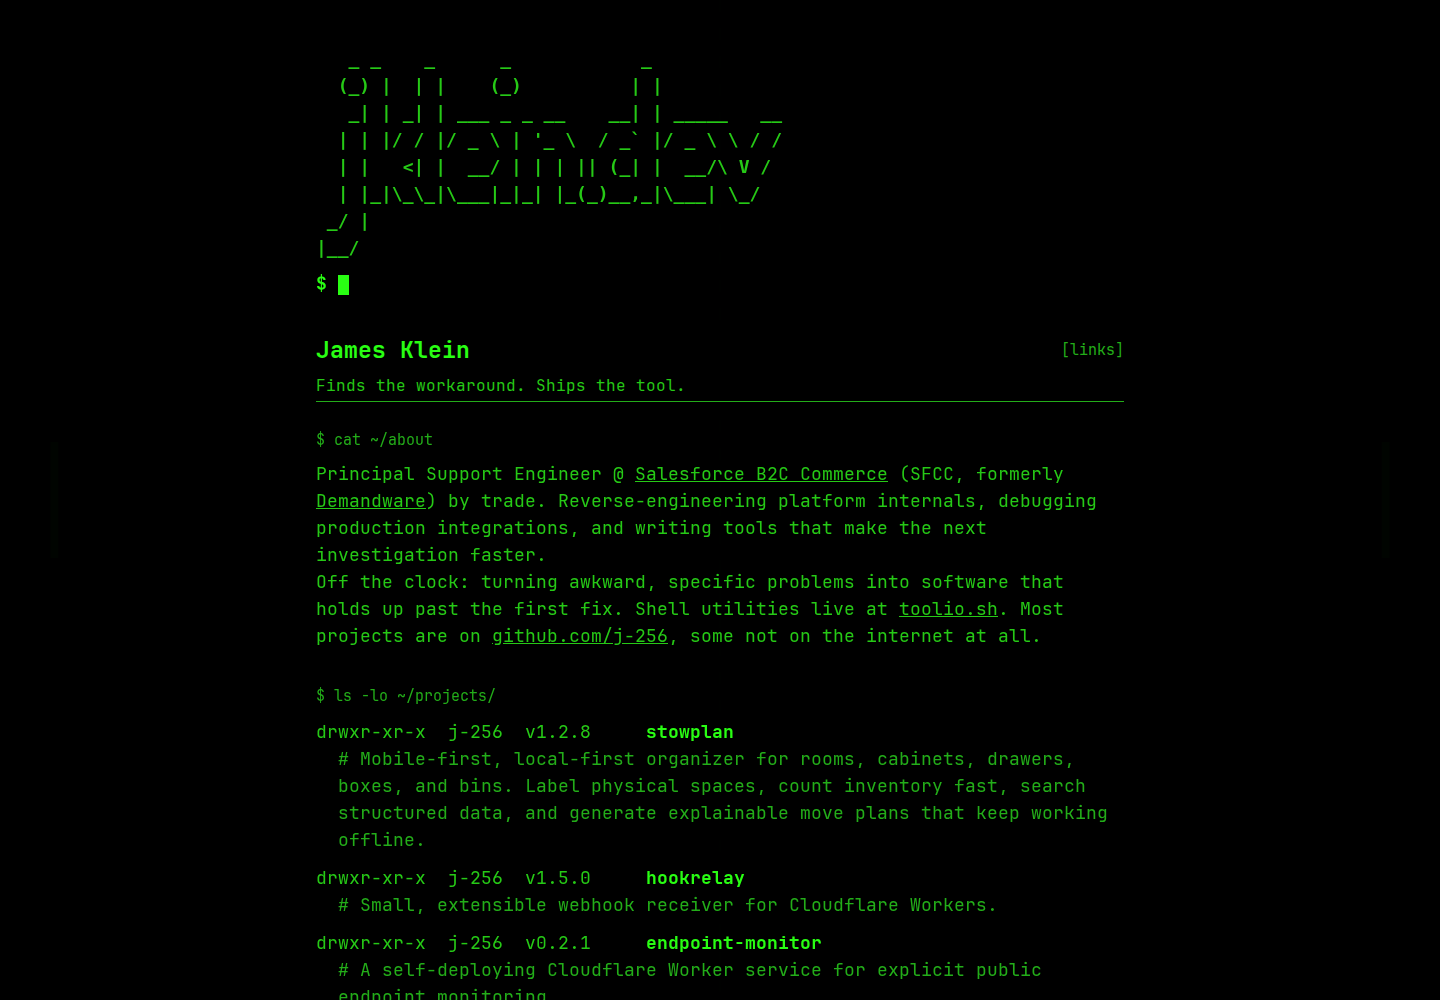
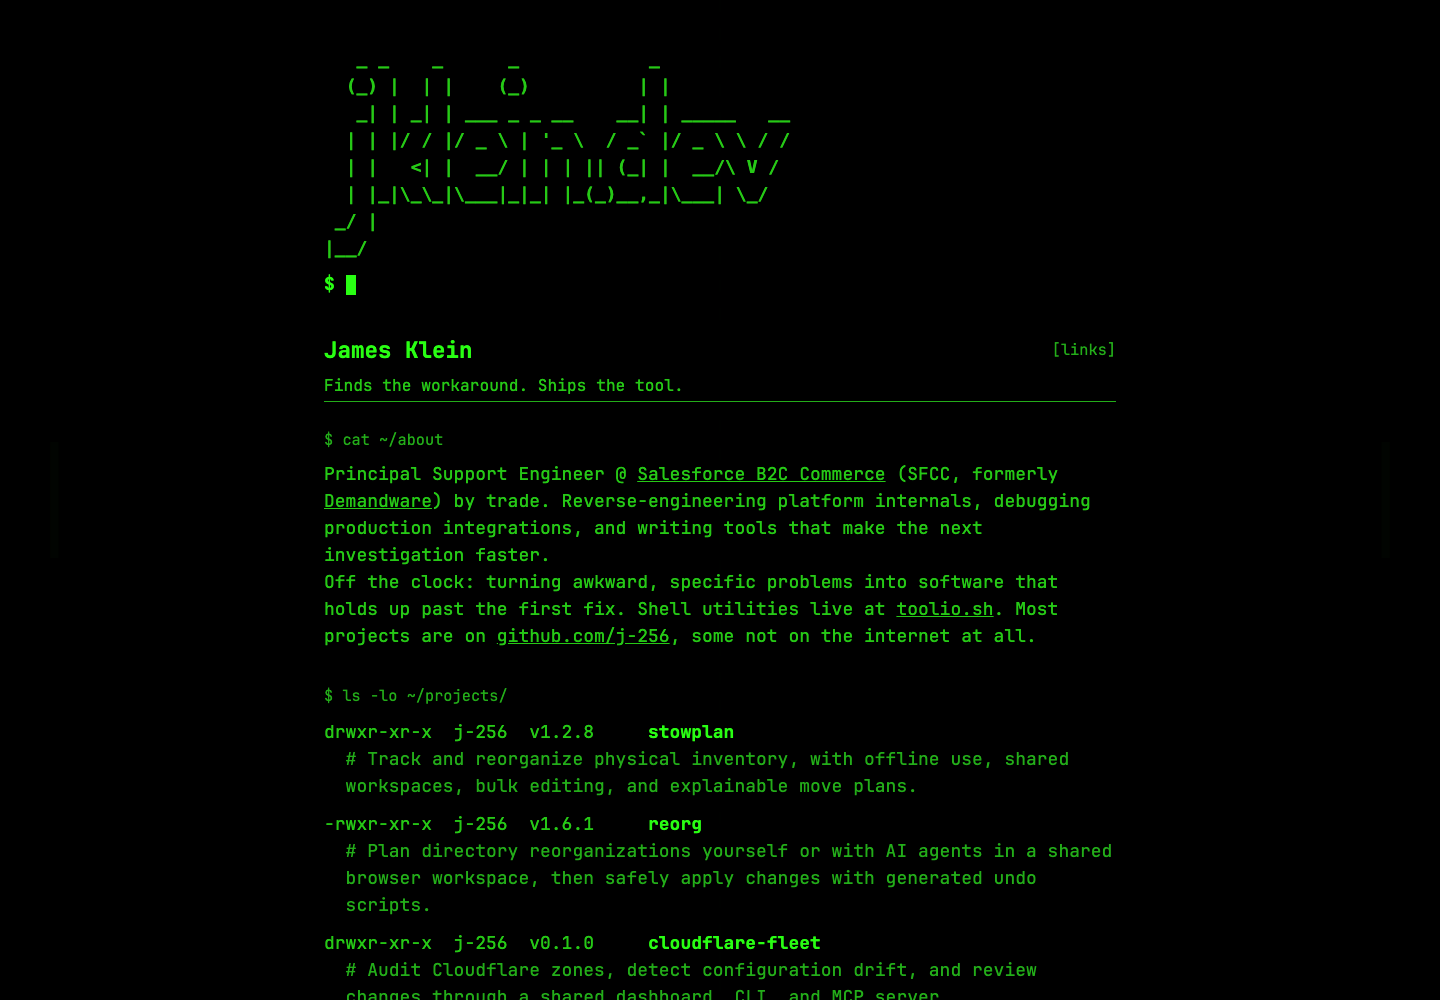
feat(projects): refresh the portfolio lineup

diff --git a/src/data/projects.ts b/src/data/projects.ts
@@ -28,24 +28,33 @@ export interface ProjectListing {
 
 export const initialProjectListings: readonly ProjectListing[] = Object.freeze([
   { repository: 'j-256/stowplan', artifact: PROJECT_ARTIFACT.BUNDLE, meta: { source: PROJECT_META_SOURCE.RELEASE } },
-  { repository: 'j-256/hookrelay', artifact: PROJECT_ARTIFACT.BUNDLE, meta: { source: PROJECT_META_SOURCE.RELEASE } },
-  { repository: 'j-256/endpoint-monitor', artifact: PROJECT_ARTIFACT.BUNDLE, meta: { source: PROJECT_META_SOURCE.RELEASE } },
   { repository: 'j-256/reorg', artifact: PROJECT_ARTIFACT.RUNNABLE, meta: { source: PROJECT_META_SOURCE.RELEASE } },
+  { repository: 'j-256/cloudflare-fleet', artifact: PROJECT_ARTIFACT.BUNDLE, meta: { source: PROJECT_META_SOURCE.RELEASE } },
+  { repository: 'j-256/maintainer-hq', artifact: PROJECT_ARTIFACT.BUNDLE, meta: { source: PROJECT_META_SOURCE.PUSHED } },
+  { repository: 'j-256/guildcontrol', artifact: PROJECT_ARTIFACT.RUNNABLE, meta: { source: PROJECT_META_SOURCE.RELEASE } },
   { repository: 'j-256/sh', artifact: PROJECT_ARTIFACT.RUNNABLE, meta: { source: PROJECT_META_SOURCE.PUSHED } },
-  { repository: 'j-256/agent-skills', artifact: PROJECT_ARTIFACT.BUNDLE, meta: { source: PROJECT_META_SOURCE.RELEASE } },
 ]);
 
 export const disclosedProjectListings: readonly ProjectListing[] = Object.freeze([
+  { repository: 'j-256/hookrelay', artifact: PROJECT_ARTIFACT.BUNDLE, meta: { source: PROJECT_META_SOURCE.RELEASE } },
   { repository: 'j-256/stream-eval', artifact: PROJECT_ARTIFACT.RUNNABLE, meta: { source: PROJECT_META_SOURCE.RELEASE } },
-  { repository: 'j-256/ccam', artifact: PROJECT_ARTIFACT.RUNNABLE, meta: { source: PROJECT_META_SOURCE.RELEASE } },
-  { repository: 'j-256/d1-r2-starter-factory', artifact: PROJECT_ARTIFACT.BUNDLE, meta: { source: PROJECT_META_SOURCE.RELEASE } },
-  { repository: SITE_REPOSITORY, artifact: PROJECT_ARTIFACT.BUNDLE, meta: { source: PROJECT_META_SOURCE.PUSHED } },
+  { repository: 'j-256/agent-skills', artifact: PROJECT_ARTIFACT.BUNDLE, meta: { source: PROJECT_META_SOURCE.RELEASE } },
   { repository: 'j-256/qlomni', artifact: PROJECT_ARTIFACT.BUNDLE, meta: { source: PROJECT_META_SOURCE.RELEASE } },
+  { repository: 'j-256/ccam', artifact: PROJECT_ARTIFACT.RUNNABLE, meta: { source: PROJECT_META_SOURCE.RELEASE } },
+  { repository: 'j-256/endpoint-monitor', artifact: PROJECT_ARTIFACT.BUNDLE, meta: { source: PROJECT_META_SOURCE.RELEASE } },
+  { repository: 'j-256/d1-r2-starter-factory', artifact: PROJECT_ARTIFACT.BUNDLE, meta: { source: PROJECT_META_SOURCE.RELEASE } },
   { repository: 'j-256/git-crypt-vscode', artifact: PROJECT_ARTIFACT.BUNDLE, meta: { source: PROJECT_META_SOURCE.RELEASE } },
-  { repository: 'j-256/persistent-clicker', artifact: PROJECT_ARTIFACT.BUNDLE, meta: { source: PROJECT_META_SOURCE.RELEASE } },
-  { repository: 'j-256/bm_keyvalidator', artifact: PROJECT_ARTIFACT.BUNDLE, meta: { source: PROJECT_META_SOURCE.RELEASE } },
   { repository: 'j-256/p12-generator', artifact: PROJECT_ARTIFACT.RUNNABLE, meta: { source: PROJECT_META_SOURCE.RELEASE } },
+  { repository: 'j-256/bm_keyvalidator', artifact: PROJECT_ARTIFACT.BUNDLE, meta: { source: PROJECT_META_SOURCE.RELEASE } },
+  { repository: 'j-256/querypatch', artifact: PROJECT_ARTIFACT.BUNDLE, meta: { source: PROJECT_META_SOURCE.PUSHED } },
+  { repository: 'j-256/persistent-clicker', artifact: PROJECT_ARTIFACT.BUNDLE, meta: { source: PROJECT_META_SOURCE.RELEASE } },
+  { repository: 'j-256/timestamp-only', artifact: PROJECT_ARTIFACT.BUNDLE, meta: { source: PROJECT_META_SOURCE.RELEASE } },
   { repository: 'j-256/rover-dumper', artifact: PROJECT_ARTIFACT.RUNNABLE, meta: { source: PROJECT_META_SOURCE.RELEASE } },
+  { repository: 'j-256/binary-watch-face', artifact: PROJECT_ARTIFACT.BUNDLE, meta: { source: PROJECT_META_SOURCE.PUSHED } },
+  { repository: 'j-256/plugin_rootfile', artifact: PROJECT_ARTIFACT.BUNDLE, meta: { source: PROJECT_META_SOURCE.PUSHED } },
+  { repository: 'j-256/pwa-kit-extensibility', artifact: PROJECT_ARTIFACT.BUNDLE, meta: { source: PROJECT_META_SOURCE.PUSHED } },
+  { repository: 'Strange-Lasers/strangelasers.com', artifact: PROJECT_ARTIFACT.BUNDLE, meta: { source: PROJECT_META_SOURCE.PUSHED } },
+  { repository: SITE_REPOSITORY, artifact: PROJECT_ARTIFACT.BUNDLE, meta: { source: PROJECT_META_SOURCE.PUSHED } },
 ]);
 
 export const projectListings: readonly ProjectListing[] = Object.freeze([
